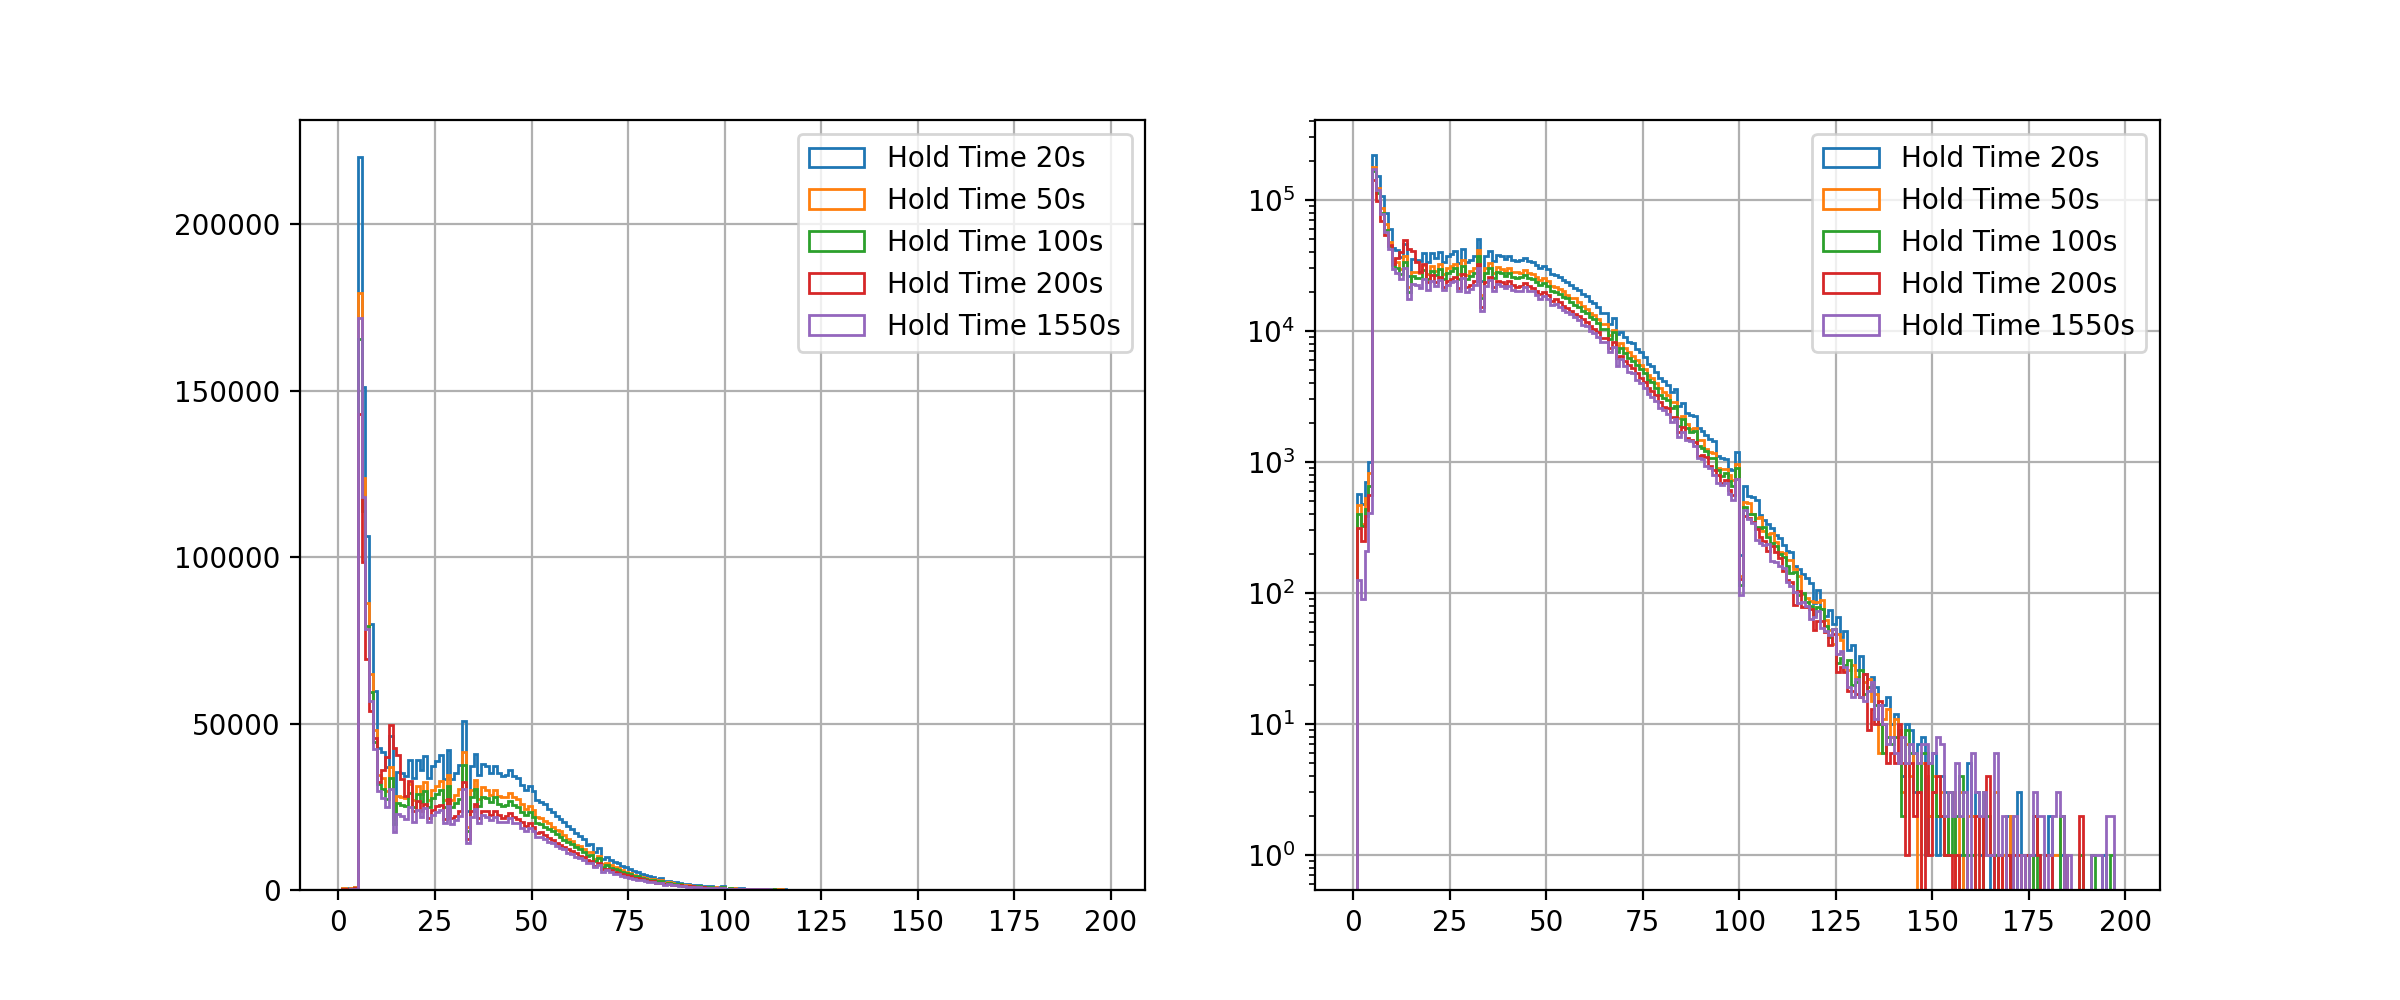
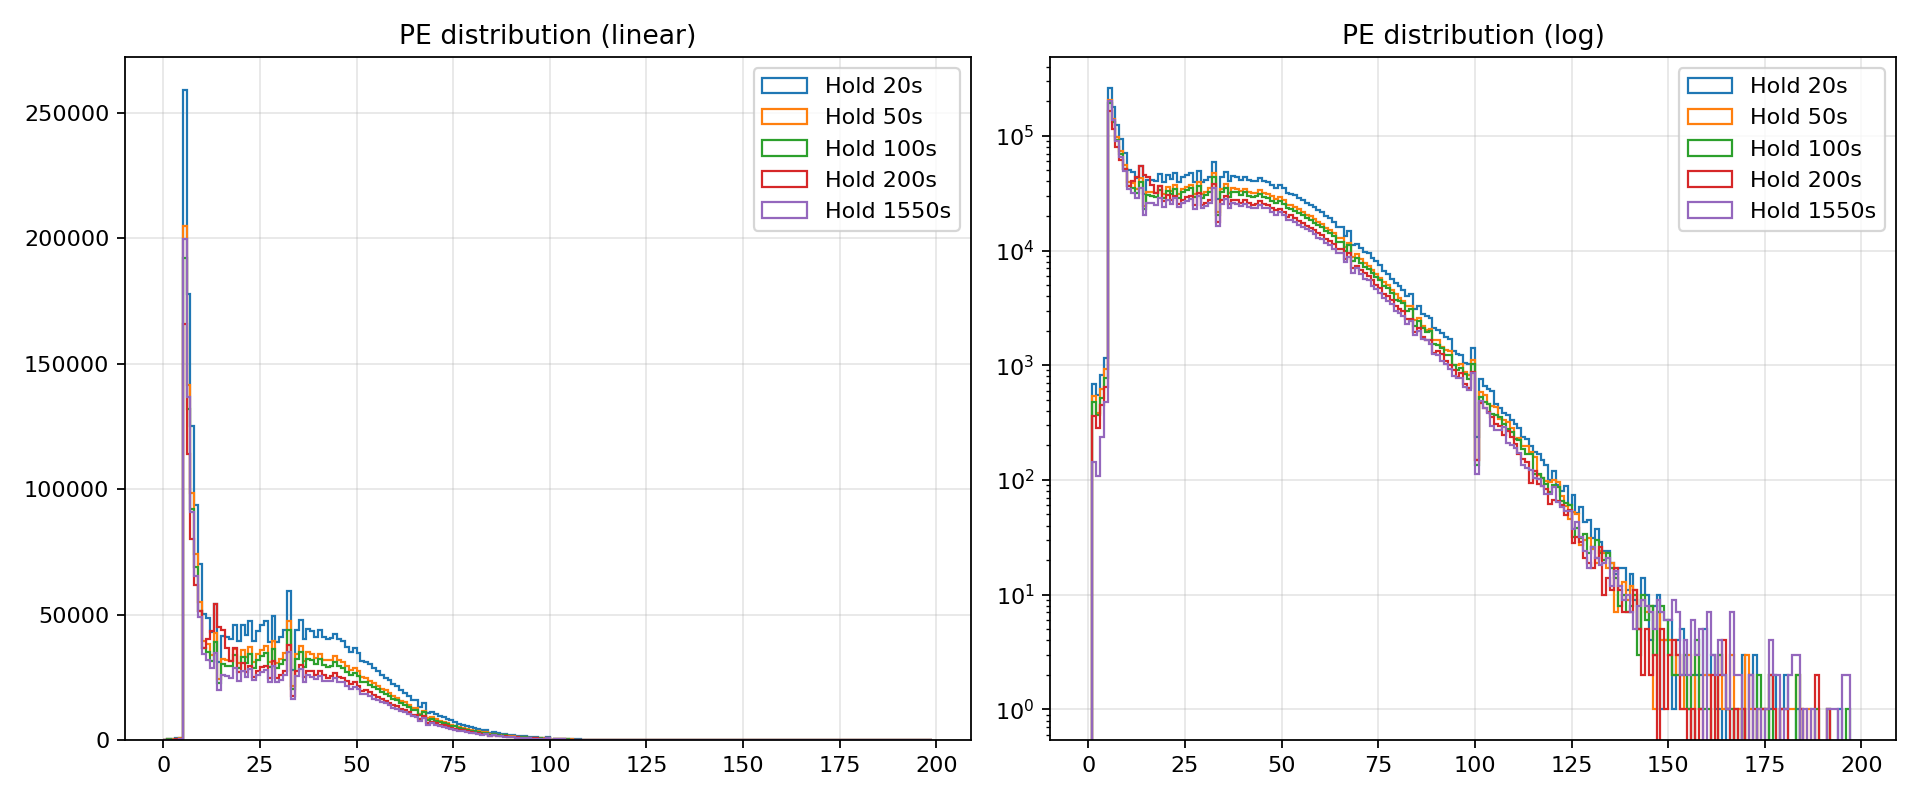
Fix python code

diff --git a/src/Pulse_Tail.cpp b/src/Pulse_Tail.cpp
@@ -98,7 +98,6 @@ int main(int argc, char **argv) {
     bool        save_to_txt   = cfg.save_to_txt;
 	json params = cfg.runinfo_json;
 	const std::set<std::string>& good_runs = cfg.good_runs_set;
-	vector<EventList> run_data;
 
     std::vector<std::string> segment_labels = {"12", "34", "56", "78"};
     std::vector<std::vector<double>> pulse_tails(4, vector<double>(750, 0.0)); // 75us @ 0.1us/bin
@@ -148,39 +147,52 @@ int main(int argc, char **argv) {
 
     if (is_valid == 0) return 0;
 
-    TCanvas* c1 = new TCanvas("c1", "Tail Histograms", 1000, 700);
-    c1->SetGrid();
-    gStyle->SetOptStat(0);
+    TCanvas* c1 = new TCanvas("c1", "Tail Histograms", 1200, 600);
+    c1->Divide(2, 1);
 
-    std::vector<TH1D*> histograms; // ROOT view of final cumulatie histograms
-    std::vector<int> colors = {kRed, kBlue, kGreen + 2, kMagenta};
-    TLegend* legend = new TLegend(0.65, 0.7, 0.88, 0.88);
+    gStyle->SetOptStat(0);
+    std::vector<int> colors = {kRed, kBlue, kGreen+2, kMagenta};
     double binWidth = 0.1;
     int nBins = pulse_tails[0].size();
 
+    std::vector<TH1D*> hists;
+    hists.reserve(pulse_tails.size());
     for (size_t seg = 0; seg < pulse_tails.size(); ++seg) {
-        std::string name = "h" + segment_labels[seg];
-        std::string title = "Tail Segment " + segment_labels[seg];
-        TH1D* hist = new TH1D(name.c_str(), title.c_str(), nBins, 0, nBins * binWidth); // x=[0, 75]us
-
-        for (int i = 0; i < nBins; ++i) {
-            hist->SetBinContent(i + 1, pulse_tails[seg][i]);
-        }
-
-        hist->SetLineColor(colors[seg % colors.size()]);
-        hist->SetLineWidth(2);
-        hist->SetTitle("Summed Tail Response;Time after pulse (#mu s);Counts");
-        histograms.push_back(hist);
-        legend->AddEntry(hist, ("Segment " + segment_labels[seg]).c_str(), "l");
-
-        if (seg == 0)
-            hist->Draw("HIST");
-        else
-            hist->Draw("HIST SAME");
+        std::string name  = "h" + segment_labels[seg];
+        std::string title = "Segment " + segment_labels[seg];
+        TH1D* h = new TH1D(name.c_str(), title.c_str(), nBins, 0, nBins * binWidth);
+        for (int i = 0; i < nBins; ++i) h->SetBinContent(i+1, pulse_tails[seg][i]);
+        h->SetLineColor(colors[seg % colors.size()]);
+        h->SetLineWidth(2);
+        h->GetXaxis()->SetTitle("Time after pulse (#mu s)");
+        h->GetYaxis()->SetTitle("Counts");
+        hists.push_back(h);
     }
 
-    legend->Draw();
-    c1->SaveAs((output_folder + "/graphs/summed_tail_response" + to_string(startrun) + "_" + to_string(endrun) + ".png").c_str());
+    // ---- Pad 1: linear ----
+    c1->cd(1);
+    gPad->SetGrid();
+    TLegend* leg1 = new TLegend(0.65, 0.70, 0.88, 0.88);
+    for (size_t i = 0; i < hists.size(); ++i) {
+        if (i == 0) hists[i]->SetTitle("Summed Tail Response (linear)");
+        hists[i]->Draw(i == 0 ? "HIST" : "HIST SAME");
+        leg1->AddEntry(hists[i], ("Segment " + segment_labels[i]).c_str(), "l");
+    }
+    leg1->Draw();
 
+    // ---- Pad 2: log ----
+    c1->cd(2);
+    gPad->SetGrid();
+    gPad->SetLogy();  // log-scale y-axis
+    TLegend* leg2 = new TLegend(0.65, 0.70, 0.88, 0.88);
+    for (size_t i = 0; i < hists.size(); ++i) {
+        if (i == 0) hists[i]->SetTitle("Summed Tail Response (log y)");
+        hists[i]->Draw(i == 0 ? "HIST" : "HIST SAME");
+        leg2->AddEntry(hists[i], ("Segment " + segment_labels[i]).c_str(), "l");
+    }
+    leg2->Draw();
+
+    c1->SaveAs((output_folder + "/graphs/summed_tail_response" +
+                std::to_string(startrun) + "_" + std::to_string(endrun) + ".png").c_str());
     return 0;
 }

diff --git a/Calculate_Lifetime.py b/Calculate_Lifetime.py
@@ -112,10 +112,9 @@ for _, r in runinfo.iterrows(): # aggregate all runs passing filter
     
     df = pd.read_csv(f)
     df.columns = df.columns.str.strip()
-
+    
     for seg in df['Segment'].unique():
-        seg = str(seg).strip()
-        if seg not in SEGMENTS:
+        if str(seg) not in SEGMENTS:
             print(f"Unknown segment {seg} in run {run}, skipping.")
             continue
         
@@ -124,21 +123,22 @@ for _, r in runinfo.iterrows(): # aggregate all runs passing filter
             results[key] = {'times': [], 'PE': [], 'bg_flag': []}
             fillucn_sum[key] = 0.0
         
-        mask = df['Segment'] == seg
-        results[key]['times'].extend(df.loc[mask, 'Time (us)'].values.tolist())
-        results[key]['PE'].extend(df.loc[mask, 'PE'].values.tolist())
-        results[key]['bg_flag'].extend(df.loc[mask, 'Event'].values.tolist())
+        mask = (df['Segment'].tolist() == seg)
+        # if run == '26594' or run == 26594:
+        #     print(df.head)
+        #     print(seg)
+        #     print(df.loc[mask])
+        results[key]['times'].extend(df.loc[mask, 'Time (us)'].values)
+        results[key]['PE'].extend(df.loc[mask, 'PE'].values)
+        results[key]['bg_flag'].extend(df.loc[mask, 'Event'].values)
         
-        fillucn_sum[key] += per_seg_fill[seg]
+        fillucn_sum[key] += per_seg_fill[str(seg)]
 
-plt.figure(figsize=(12, 5), dpi=160) # PE spectra by hold time
-ax1 = plt.subplot(1, 2, 1)
-ax2 = plt.subplot(1, 2, 2)
-
+fig, (ax1, ax2) = plt.subplots(1, 2, figsize=(12, 5), dpi=160) # PE spectra by hold time
 for hold_t in hold_times:
     all_pe = []
     for seg in SEGMENTS:
-        key = (hold_t, seg)
+        key = (hold_t, int(seg))
         if key not in results:
             print(f"Missing results for hold time {hold_t}s, segment {seg}, skipping.")
             continue
@@ -169,7 +169,7 @@ for i, seg in enumerate(SEGMENTS):
         counts_per_hold = [] # list of (hold_t, normalized ocunt)
 
         for hold_t in hold_times:
-            key = (hold_t, seg)
+            key = (hold_t, int(seg))
             if key not in results:
                 print(f"Missing results for hold time {hold_t}s, segment {seg}, skipping.")
                 continue
@@ -197,9 +197,9 @@ for i, seg in enumerate(SEGMENTS):
 
         tau, dtau = fit_tau_profiled(ys, ts)
         lifetimes.append(tau)
-        dlifetimes.append(dtau)
+        dlifetimes.append(dtau / 10000)
 
-    lifetimes_by_seg[seg] = (lifetimes, dlifetimes)
+    lifetime_by_seg[seg] = (lifetimes, dlifetimes)
     plt.errorbar(thresholds, lifetimes, yerr=dlifetimes, fmt='o-', label=f'Segment {seg}')
 
 plt.xlabel('PE Threshold')

diff --git a/src/File_Loader.cpp b/src/File_Loader.cpp
@@ -15,9 +15,7 @@ string ensureTrailingSlash(const string& folder) {
     if (!folder.empty() && folder.back() != '/') {
         return folder + "/";
     }
-
     return folder;
-
 }
 
 // process ROOT filename for this run and return PE timestamps for each PMT pair
@@ -56,19 +54,16 @@ vector<EventList> processfile(string data_folder, string runnum) {
 		return {};
 	}
 	
-	// estimate run duration
+	/** 
+	// estimate run duration (commented out to speed up runtime)
 	double run_duration = tems->GetMaximum("time");
 	double backup_run_duration = tmcs_0->GetMaximum("realtime");
-    if(run_duration < 0 and backup_run_duration >0){
-		run_duration = backup_run_duration;
-	}
-	else if(run_duration < 0){
-		run_duration = 2200;
-	}
-	else if(run_duration > 3000 and backup_run_duration < 3000){
-		run_duration = backup_run_duration;
-	};
+    if (run_duration < 0 and backup_run_duration < 0) run_duration = backup_run_duration;
+	else if (run_duration < 0) run_duration = 2200;
+	else if (run_duration > 3000 and backup_run_duration < 3000) run_duration = backup_run_duration;
+
 	cout << runnum << " final run duration = " << run_duration << endl;
+	*/
 
 	// accumulate events into 4 segment lists
     EventList PMT12, PMT34, PMT1112, PMT1314;
